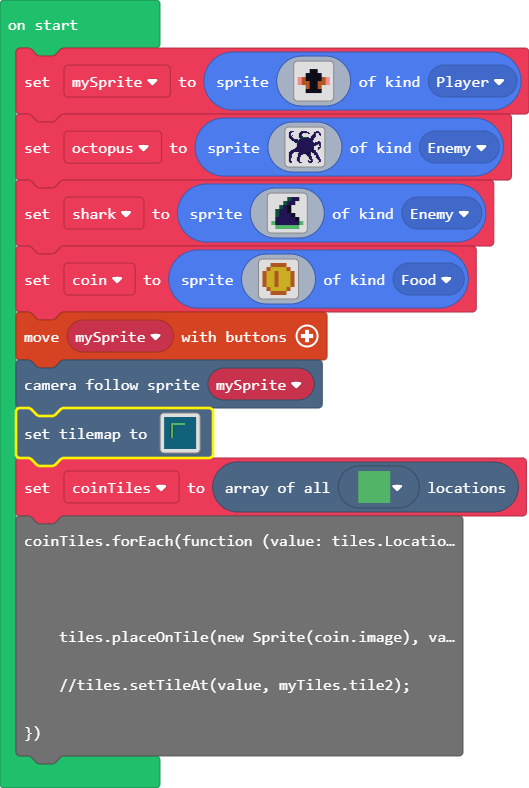
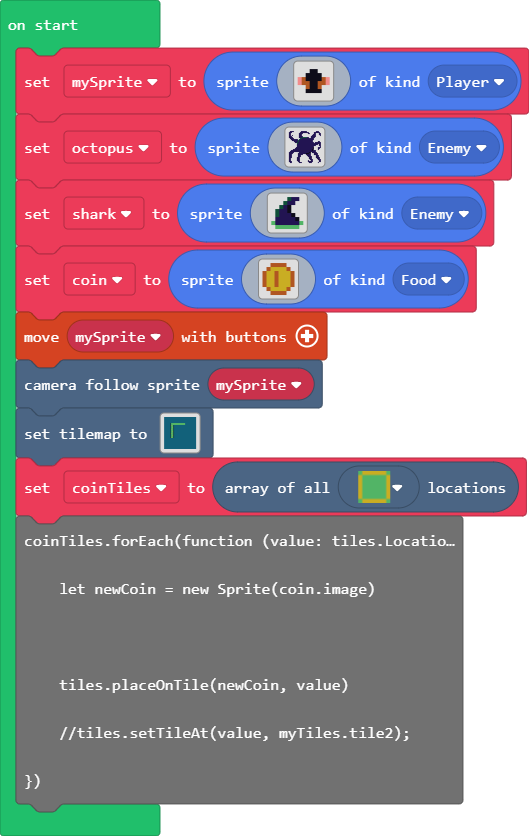
Now swapping out the correct tiles for the coins

diff --git a/main.ts b/main.ts
@@ -289,9 +289,10 @@ tiles.setTilemap(tiles.createTilemap(
             [myTiles.tile0,myTiles.tile2,myTiles.tile3,myTiles.tile4,myTiles.tile5,myTiles.tile6,myTiles.tile7,myTiles.tile8,myTiles.tile9,myTiles.tile10,myTiles.tile11,myTiles.tile12,myTiles.tile13,myTiles.tile14,myTiles.tile15,myTiles.tile16],
             TileScale.Eight
         ))
-let coinTiles = tiles.getTilesByType(myTiles.tile4)
+let coinTiles = tiles.getTilesByType(myTiles.tile6)
 coinTiles.forEach(function (value: tiles.Location, index: number) {
-
-    tiles.placeOnTile(new Sprite(coin.image), value);
+    let newCoin = new Sprite(coin.image)
+    
+    tiles.placeOnTile(newCoin, value)
     //tiles.setTileAt(value, myTiles.tile2);
 })
